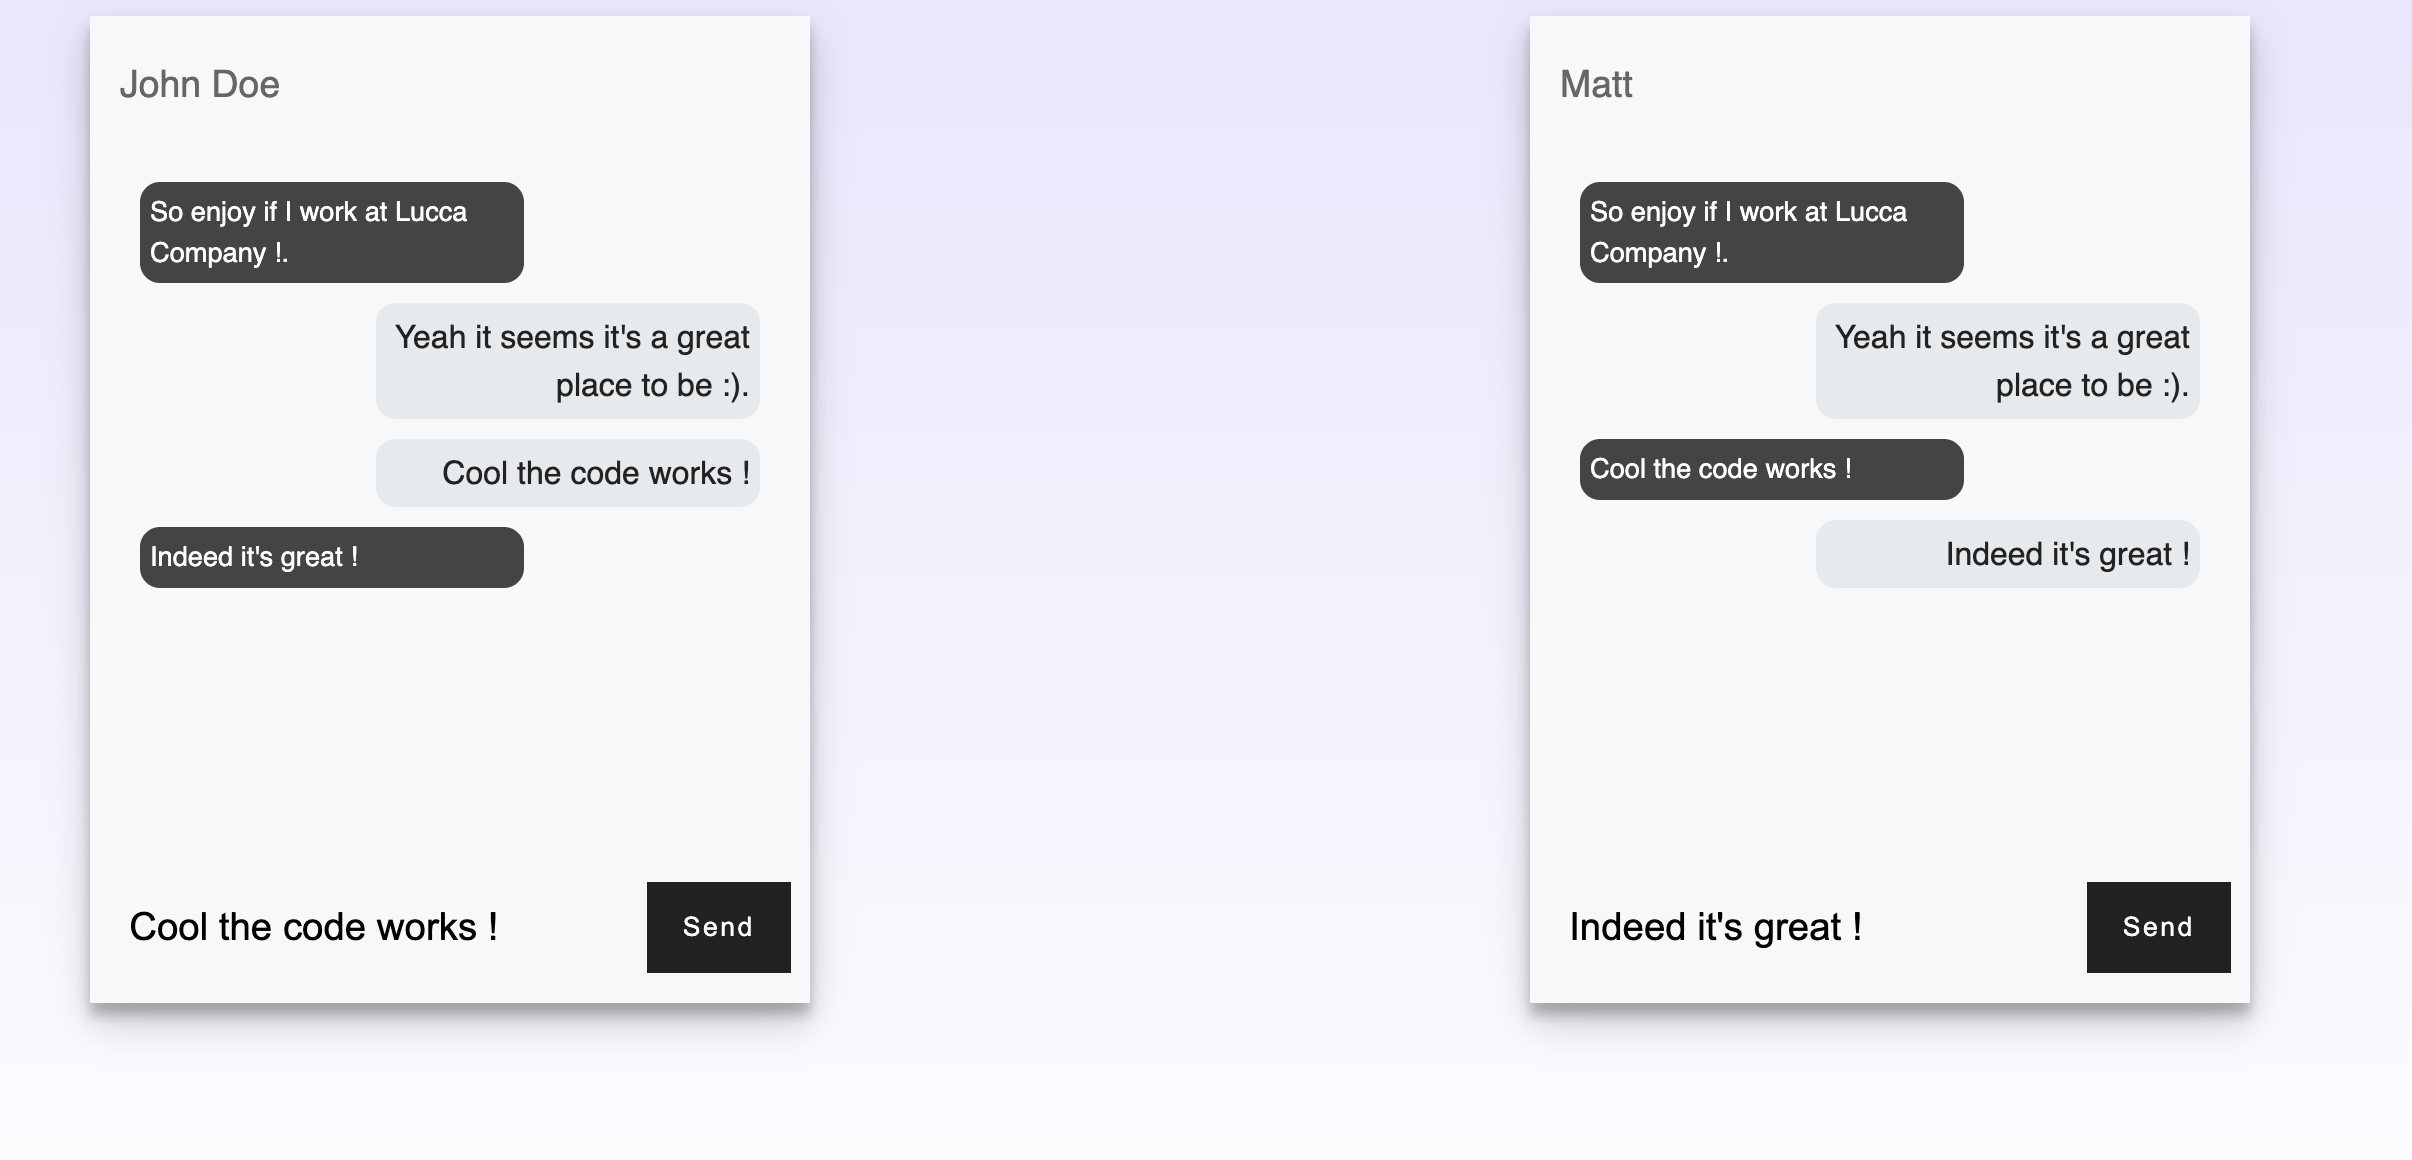
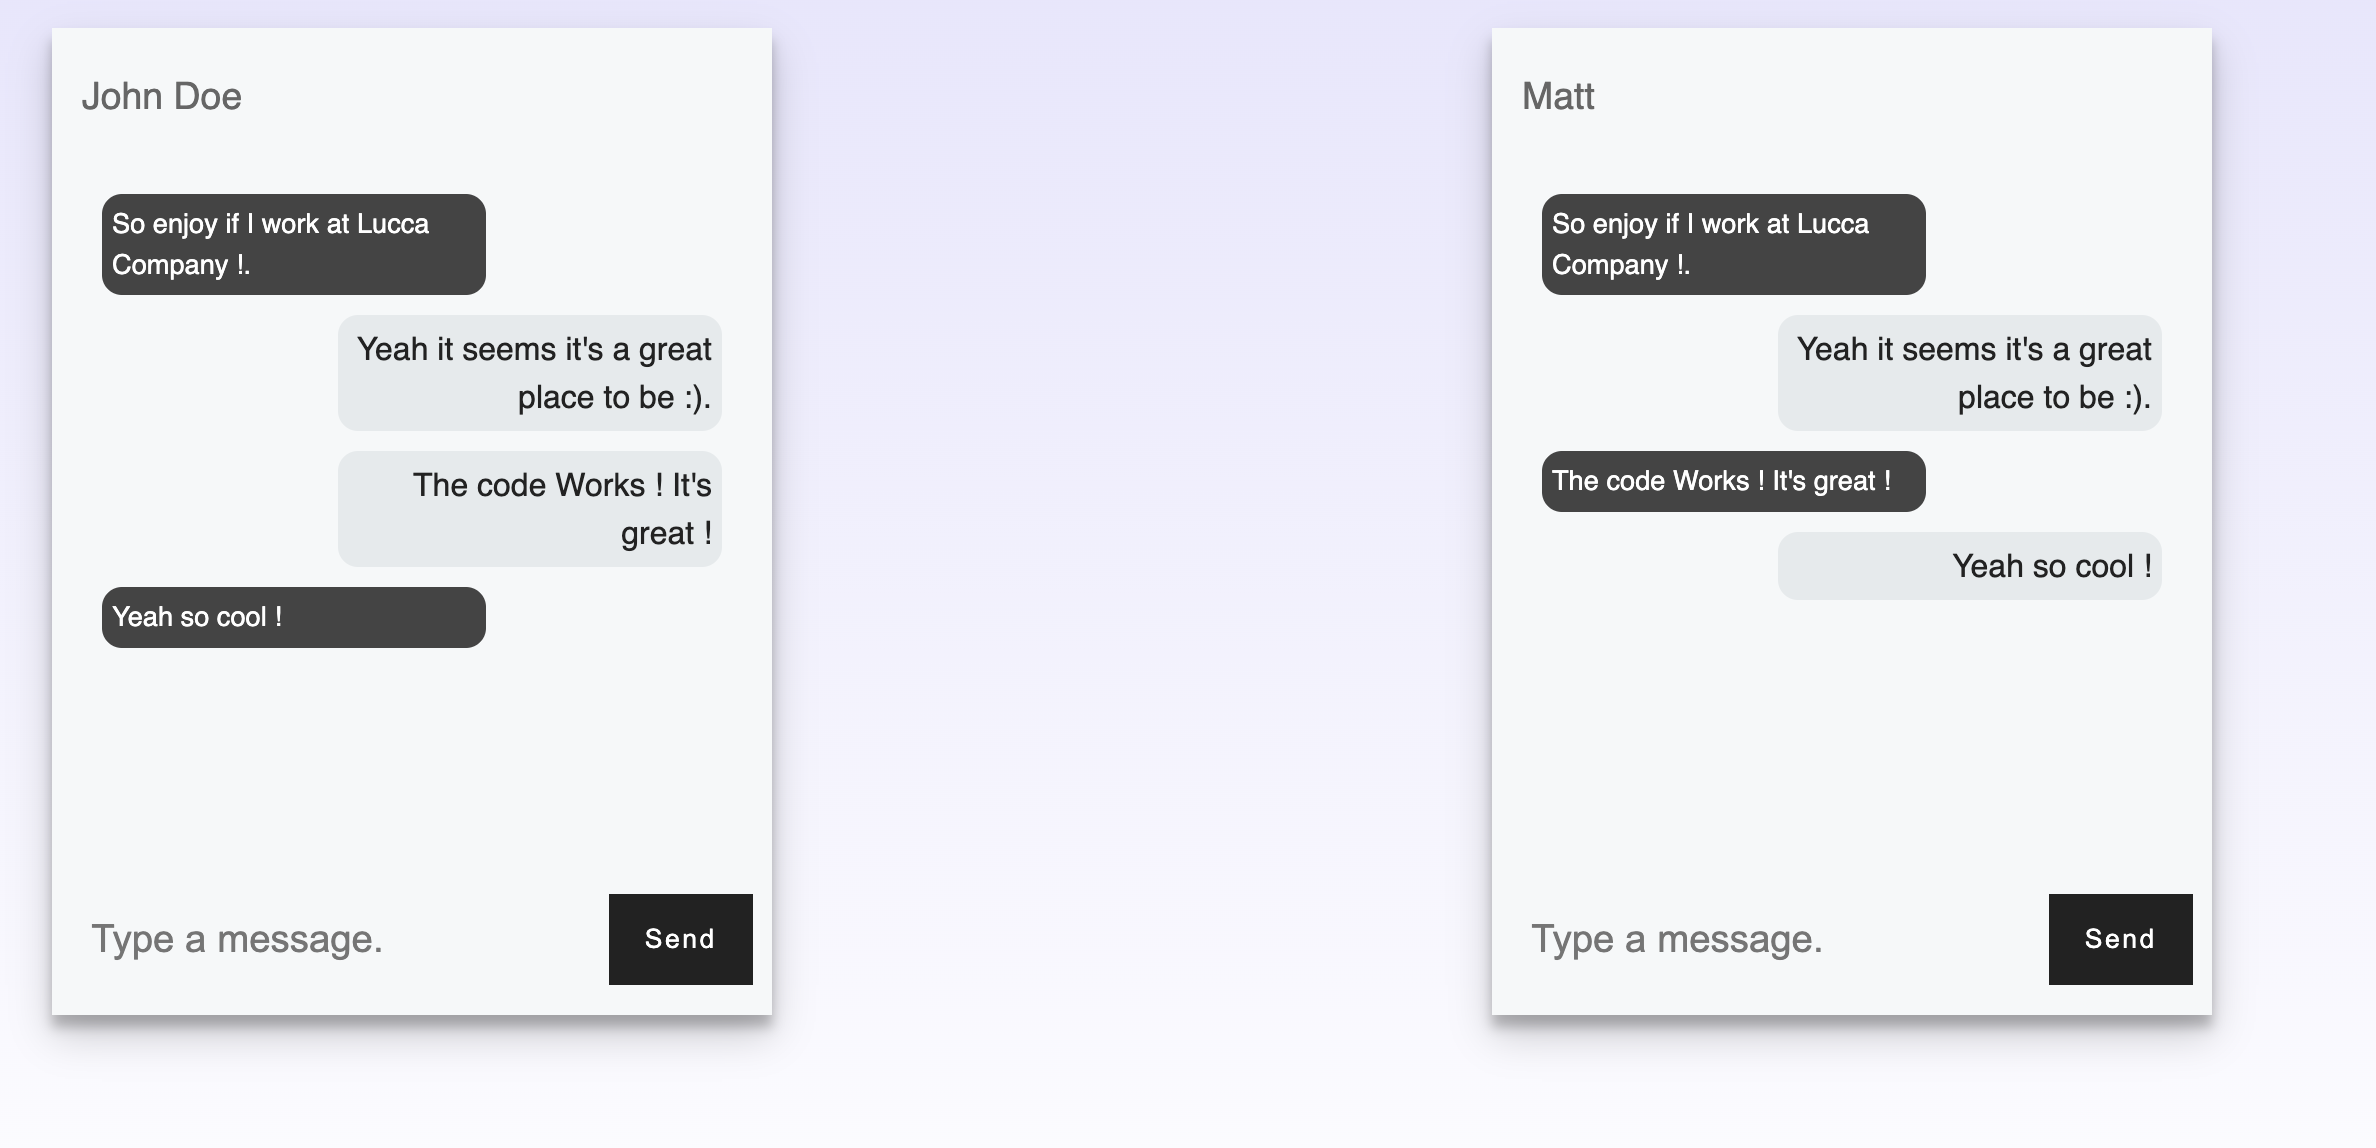
feat(input): clear message after send it

Changed region(s): [[0.0, 0.0305, 0.3426, 0.9146], [0.6229, 0.0305, 0.9343, 0.9146], [0.8098, 0.4573, 0.9343, 0.5183]]

diff --git a/js/chatEngine.js b/js/chatEngine.js
@@ -5,10 +5,12 @@ function SendMessage(sender) {
         message = document.getElementById("text_user1").value;
         SendMessageToReceiver(message, "chatbox2");
         AddMessageForSender(message, "chatbox1");
+        ClearInputText(sender);
     } else if (sender === 2) {
         message = document.getElementById("text_user2").value;
         SendMessageToReceiver(message, "chatbox1");
         AddMessageForSender(message, "chatbox2");
+        ClearInputText(sender);
     }
 }
 
@@ -31,3 +33,10 @@ function AddMessageForSender(message, targetId) {
     box.appendChild(el);
 }
 
+function ClearInputText(sender) {
+    if (sender === 1) {
+        document.getElementById("text_user1").value = "";
+    } else if (sender === 2) {
+        document.getElementById("text_user2").value = "";
+    }
+}
